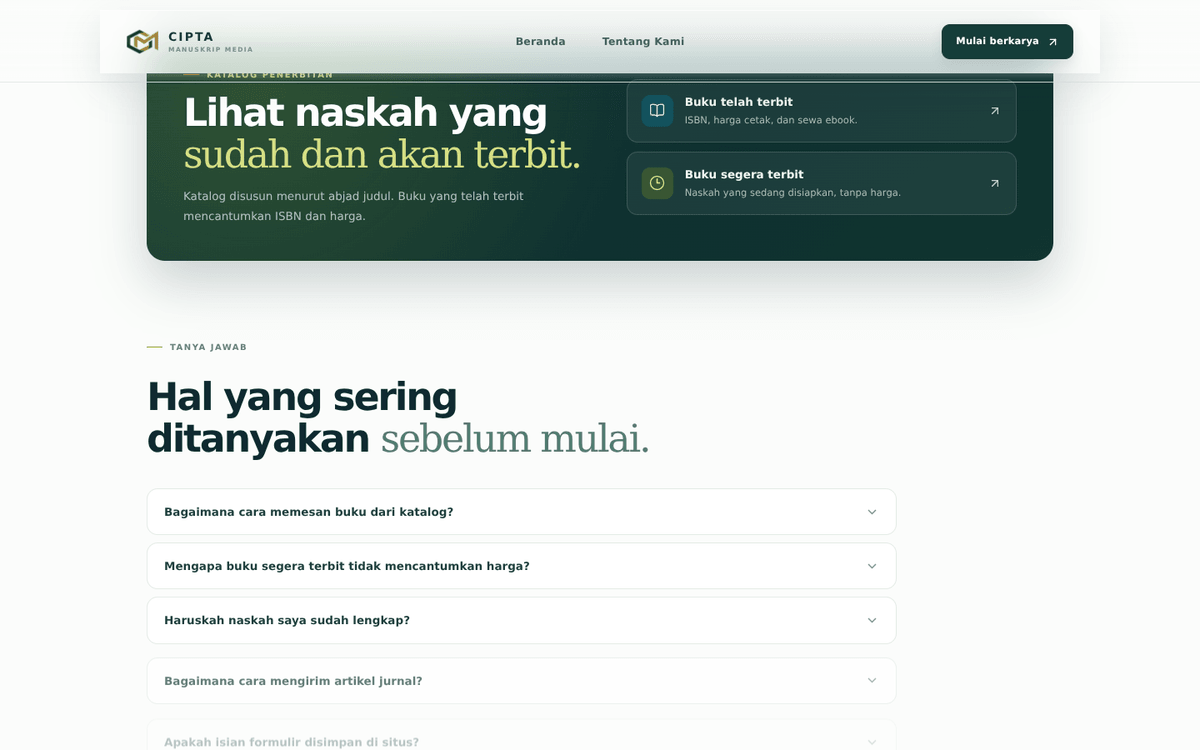
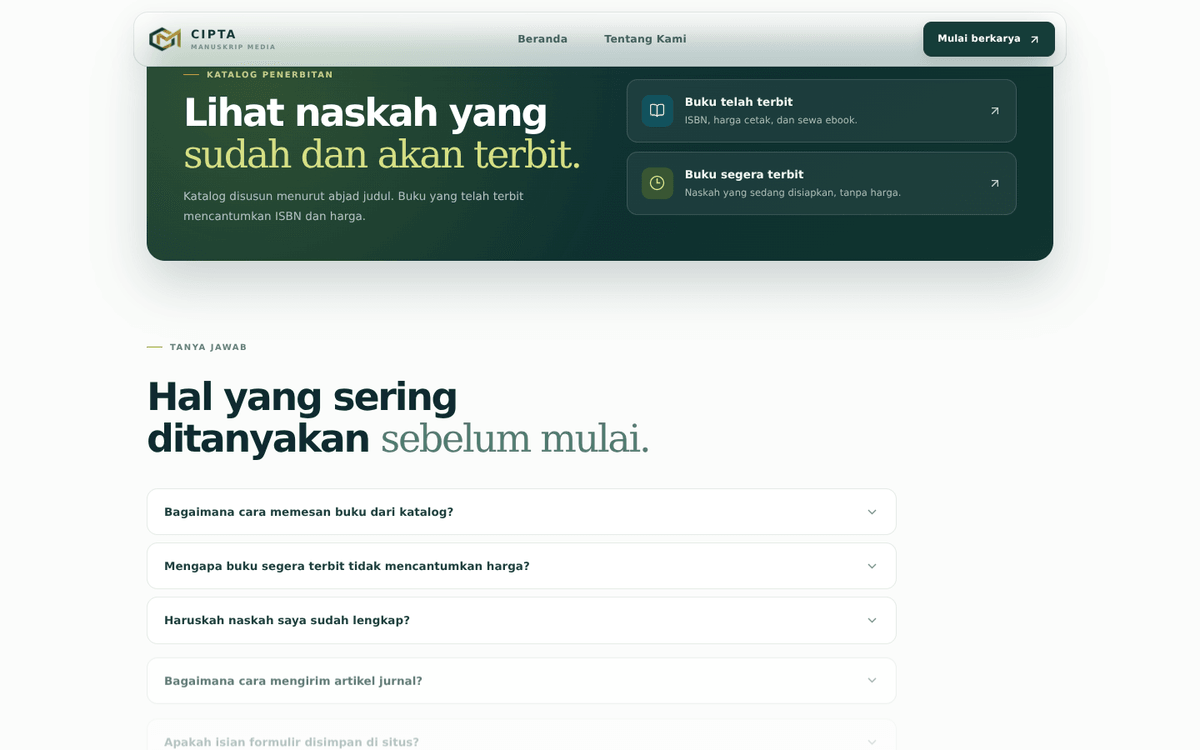
Navbar: kembalikan bentuk pita membulat, sisakan efek kaca
Perbaikan atas dua kesalahan pada perubahan sebelumnya:

1. Bentuk panel hilang. Aturan navbar yang berlaku lebih dulu membuat
   panel selebar layar dengan `border-radius: 0`, dan perubahan sebelumnya
   hanya menimpa warna latarnya — jadi yang muncul pita bening rata tepi
   layar, bukan pita kaca membulat. Seluruh properti bentuk (lebar, padding,
   radius, border, bayangan) sekarang ditulis ulang di satu tempat.
2. Selaput gradien di belakang header berhenti di tengah header dan
   terlihat seperti panel yang terpotong. Selaput itu dihapus; konten di
   belakang hanya boleh terlihat lewat panel kacanya sendiri.

Latar panel 74% (90% di ponsel, karena baris kedua nav bertumpuk di atas
latar halaman) dengan backdrop-filter blur(18px) saturate(165%) dan
cadangan 95% untuk peramban tanpa backdrop-filter. Entri CSS mati
`cmm-nav-glass` dan `scroll-padding` ganda ikut dibersihkan.

Changed region(s): [[0.0925, 0.0307, 0.8942, 0.1227]]

diff --git a/app/app/globals.css b/app/app/globals.css
@@ -4365,66 +4365,90 @@ html {
 }
 
 /* ==========================================================================
-   NAVBAR KACA (sticky)
+   NAVBAR KACA
    --------------------------------------------------------------------------
-   Header menempel di atas supaya isi halaman benar-benar lewat di belakang
-   panel navigasi — tanpa itu `backdrop-filter` tidak ada yang bisa diburamkan.
-   Panelnya dibuat lebih bening agar efek kaca terlihat, dengan latar cadangan
-   pekat untuk peramban yang tidak mendukung `backdrop-filter`.
+   Bentuknya tetap pita membulat yang mengambang di tengah seperti semula;
+   yang berubah hanya bahannya: kaca. Header dibuat `sticky` supaya ada isi
+   yang benar-benar lewat di belakang panel — tanpa itu `backdrop-filter`
+   tidak punya apa pun untuk diburamkan.
+
+   Seluruh properti bentuk ditulis ulang di sini. Aturan navbar sebelumnya
+   membuat panel selebar layar tanpa sudut (`border-radius: 0`), jadi kalau
+   hanya warna latar yang ditimpa, hasilnya pita bening rata tepi layar —
+   bukan pita kaca yang membulat.
    ========================================================================== */
 
 .site-header {
   position: sticky;
   top: 0;
   z-index: 40;
-  padding: 12px 24px 10px;
+  width: 100%;
+  padding: 14px 24px 12px;
+  border: 0;
+  /* Tanpa selaput latar. Konten di belakang hanya boleh terlihat lewat panel
+     kacanya sendiri; selaput gradien sebelumnya berhenti di tengah header
+     dan terlihat seperti potongan panel yang rusak. */
+  background: transparent;
 }
 
 .site-nav {
-  background: rgba(255, 255, 255, 0.58);
-  border-color: rgba(16, 42, 49, 0.1);
+  width: 100%;
+  max-width: 1120px;
+  min-height: 66px;
+  margin: 0 auto;
+  padding: 8px 13px 8px 18px;
+  border: 1px solid rgba(16, 42, 49, 0.1);
+  border-radius: 18px;
+  background: rgba(255, 255, 255, 0.74);
   box-shadow:
-    0 10px 34px rgba(16, 42, 49, 0.06),
-    inset 0 1px rgba(255, 255, 255, 0.72);
-  backdrop-filter: blur(26px) saturate(180%);
+    0 10px 30px rgba(16, 42, 49, 0.07),
+    inset 0 1px rgba(255, 255, 255, 0.7);
+  backdrop-filter: blur(18px) saturate(165%);
 }
 
-/* Tanpa dukungan backdrop-filter, panel harus cukup pekat agar teks nav
-   tetap terbaca saat ada konten lewat di belakangnya.
-
-   Prefiks `-webkit-backdrop-filter` sengaja tidak ditulis tangan: Lightning
-   CSS menambahkannya sendiri sesuai target peramban. Menuliskannya manual
-   dengan nilai yang sama membuat properti standarnya ikut dibuang saat
-   build, dan efek kaca hilang di peramban yang hanya menerima bentuk
-   standar. */
+/* Peramban tanpa backdrop-filter: latar dinaikkan supaya teks navigasi tetap
+   terbaca saat ada konten lewat di belakang panel. */
 @supports not (backdrop-filter: blur(1px)) {
   .site-nav {
-    background: rgba(255, 255, 255, 0.94);
+    background: rgba(255, 255, 255, 0.95);
   }
 }
 
-/* Bayangan panel sedikit menguat saat halaman digulir. Murni dekoratif dan
-   hanya berjalan di peramban yang mendukung animasi berbasis gulir. */
-@keyframes cmm-nav-glass {
-  from {
-    box-shadow:
-      0 10px 34px rgba(16, 42, 49, 0.06),
-      inset 0 1px rgba(255, 255, 255, 0.72);
+@media (max-width: 900px) {
+  .site-header {
+    padding: 10px 16px 8px;
   }
-  to {
-    box-shadow:
-      0 16px 44px rgba(16, 42, 49, 0.11),
-      inset 0 1px rgba(255, 255, 255, 0.82);
+
+  .site-nav {
+    padding: 6px 12px;
   }
 }
 
-@supports (animation-timeline: scroll()) {
-  @media (prefers-reduced-motion: no-preference) {
-    .site-nav {
-      animation: cmm-nav-glass linear both;
-      animation-timeline: scroll();
-      animation-range: 0 140px;
-    }
+@media (max-width: 700px) {
+  .site-header {
+    padding: 8px 10px 6px;
+  }
+
+  .site-nav {
+    min-height: 0;
+    padding: 6px 13px 4px;
+    border-radius: 16px;
+    /* Baris kedua nav (Beranda / Tentang Kami) bertumpuk di atas latar
+       halaman, jadi panel di ponsel dibuat lebih pekat daripada di desktop
+       agar teksnya tetap terbaca saat melewati bagian gelap. */
+    background: rgba(255, 255, 255, 0.9);
+  }
+}
+
+/* Jangkar dalam halaman berhenti di bawah navbar menempel, bukan tertutup.
+   Nilainya mengikuti tinggi header: padding + tinggi panel + padding. */
+html {
+  scroll-padding-top: 104px;
+}
+
+@media (max-width: 700px) {
+  html {
+    scroll-padding-top: 112px;
   }
 }
 
@@ -4503,52 +4527,7 @@ html {
 
 @media (prefers-reduced-motion: reduce) {
   .home-hero .orbit,
-  .home-hero .orbit-middle,
-  .site-nav {
+  .home-hero .orbit-middle {
     animation: none;
   }
-}
-
-/* --- Penyesuaian navbar kaca ------------------------------------------- */
-
-/* Jangkar dalam halaman berhenti di bawah navbar yang menempel, bukan
-   tertutup olehnya. */
-html {
-  scroll-padding-top: 96px;
-}
-
-@media (max-width: 700px) {
-  html {
-    scroll-padding-top: 116px;
-  }
-
-  .site-header {
-    padding: 8px 10px 6px;
-  }
-}
-
-/* Sedikit lebih pekat di layar kecil supaya teks nav tetap terbaca saat
-   konten lewat di belakangnya. */
-@media (max-width: 700px) {
-  .site-nav {
-    background: rgba(255, 255, 255, 0.72);
-  }
-}
-
-/* Selaput tipis di belakang navbar: tanpa ini, tepi atas viewport
-   memperlihatkan konten yang lewat dengan tajam di atas panel kaca, dan
-   efeknya terlihat seperti potongan, bukan lapisan. */
-.site-header {
-  background: linear-gradient(
-    180deg,
-    rgba(251, 252, 251, 0.94) 0%,
-    rgba(251, 252, 251, 0.72) 62%,
-    rgba(251, 252, 251, 0) 100%
-  );
-}
-
-/* Panel kaca tidak perlu lagi menutupi tepi atas; selaput di atas sudah
-   mengurusnya, jadi latarnya bisa lebih bening. */
-.site-nav {
-  background: rgba(255, 255, 255, 0.52);
 }

diff --git a/docs/ui-remaster/README.md b/docs/ui-remaster/README.md
@@ -16,9 +16,10 @@ ditinjau tanpa menyalakan server.
 | `13-beranda-kontak.png` | beranda — kontak | 1440 |
 | `14-navbar-kaca.png` | navbar kaca saat halaman digulir | 1440 |
 
-**Navbar.** Header kini menempel di atas (`position: sticky`) dengan panel kaca
-(`backdrop-filter: blur(26px) saturate(180%)`) di atas selaput gradien tipis,
-supaya konten yang lewat di belakangnya benar-benar terlihat diburamkan.
+**Navbar.** Bentuknya tetap pita membulat yang mengambang di tengah seperti
+desain awal; yang berubah bahannya. Header menempel di atas
+(`position: sticky`) dan panelnya ber-`backdrop-filter: blur(18px)
+saturate(165%)`, jadi konten yang lewat di belakangnya terlihat diburamkan.
 
 **Catatan penting soal isinya.** Tangkapan layar ini dibuat di mesin tanpa
 MySQL, memakai data dan sampul *sementara* yang hanya hidup selama proses
